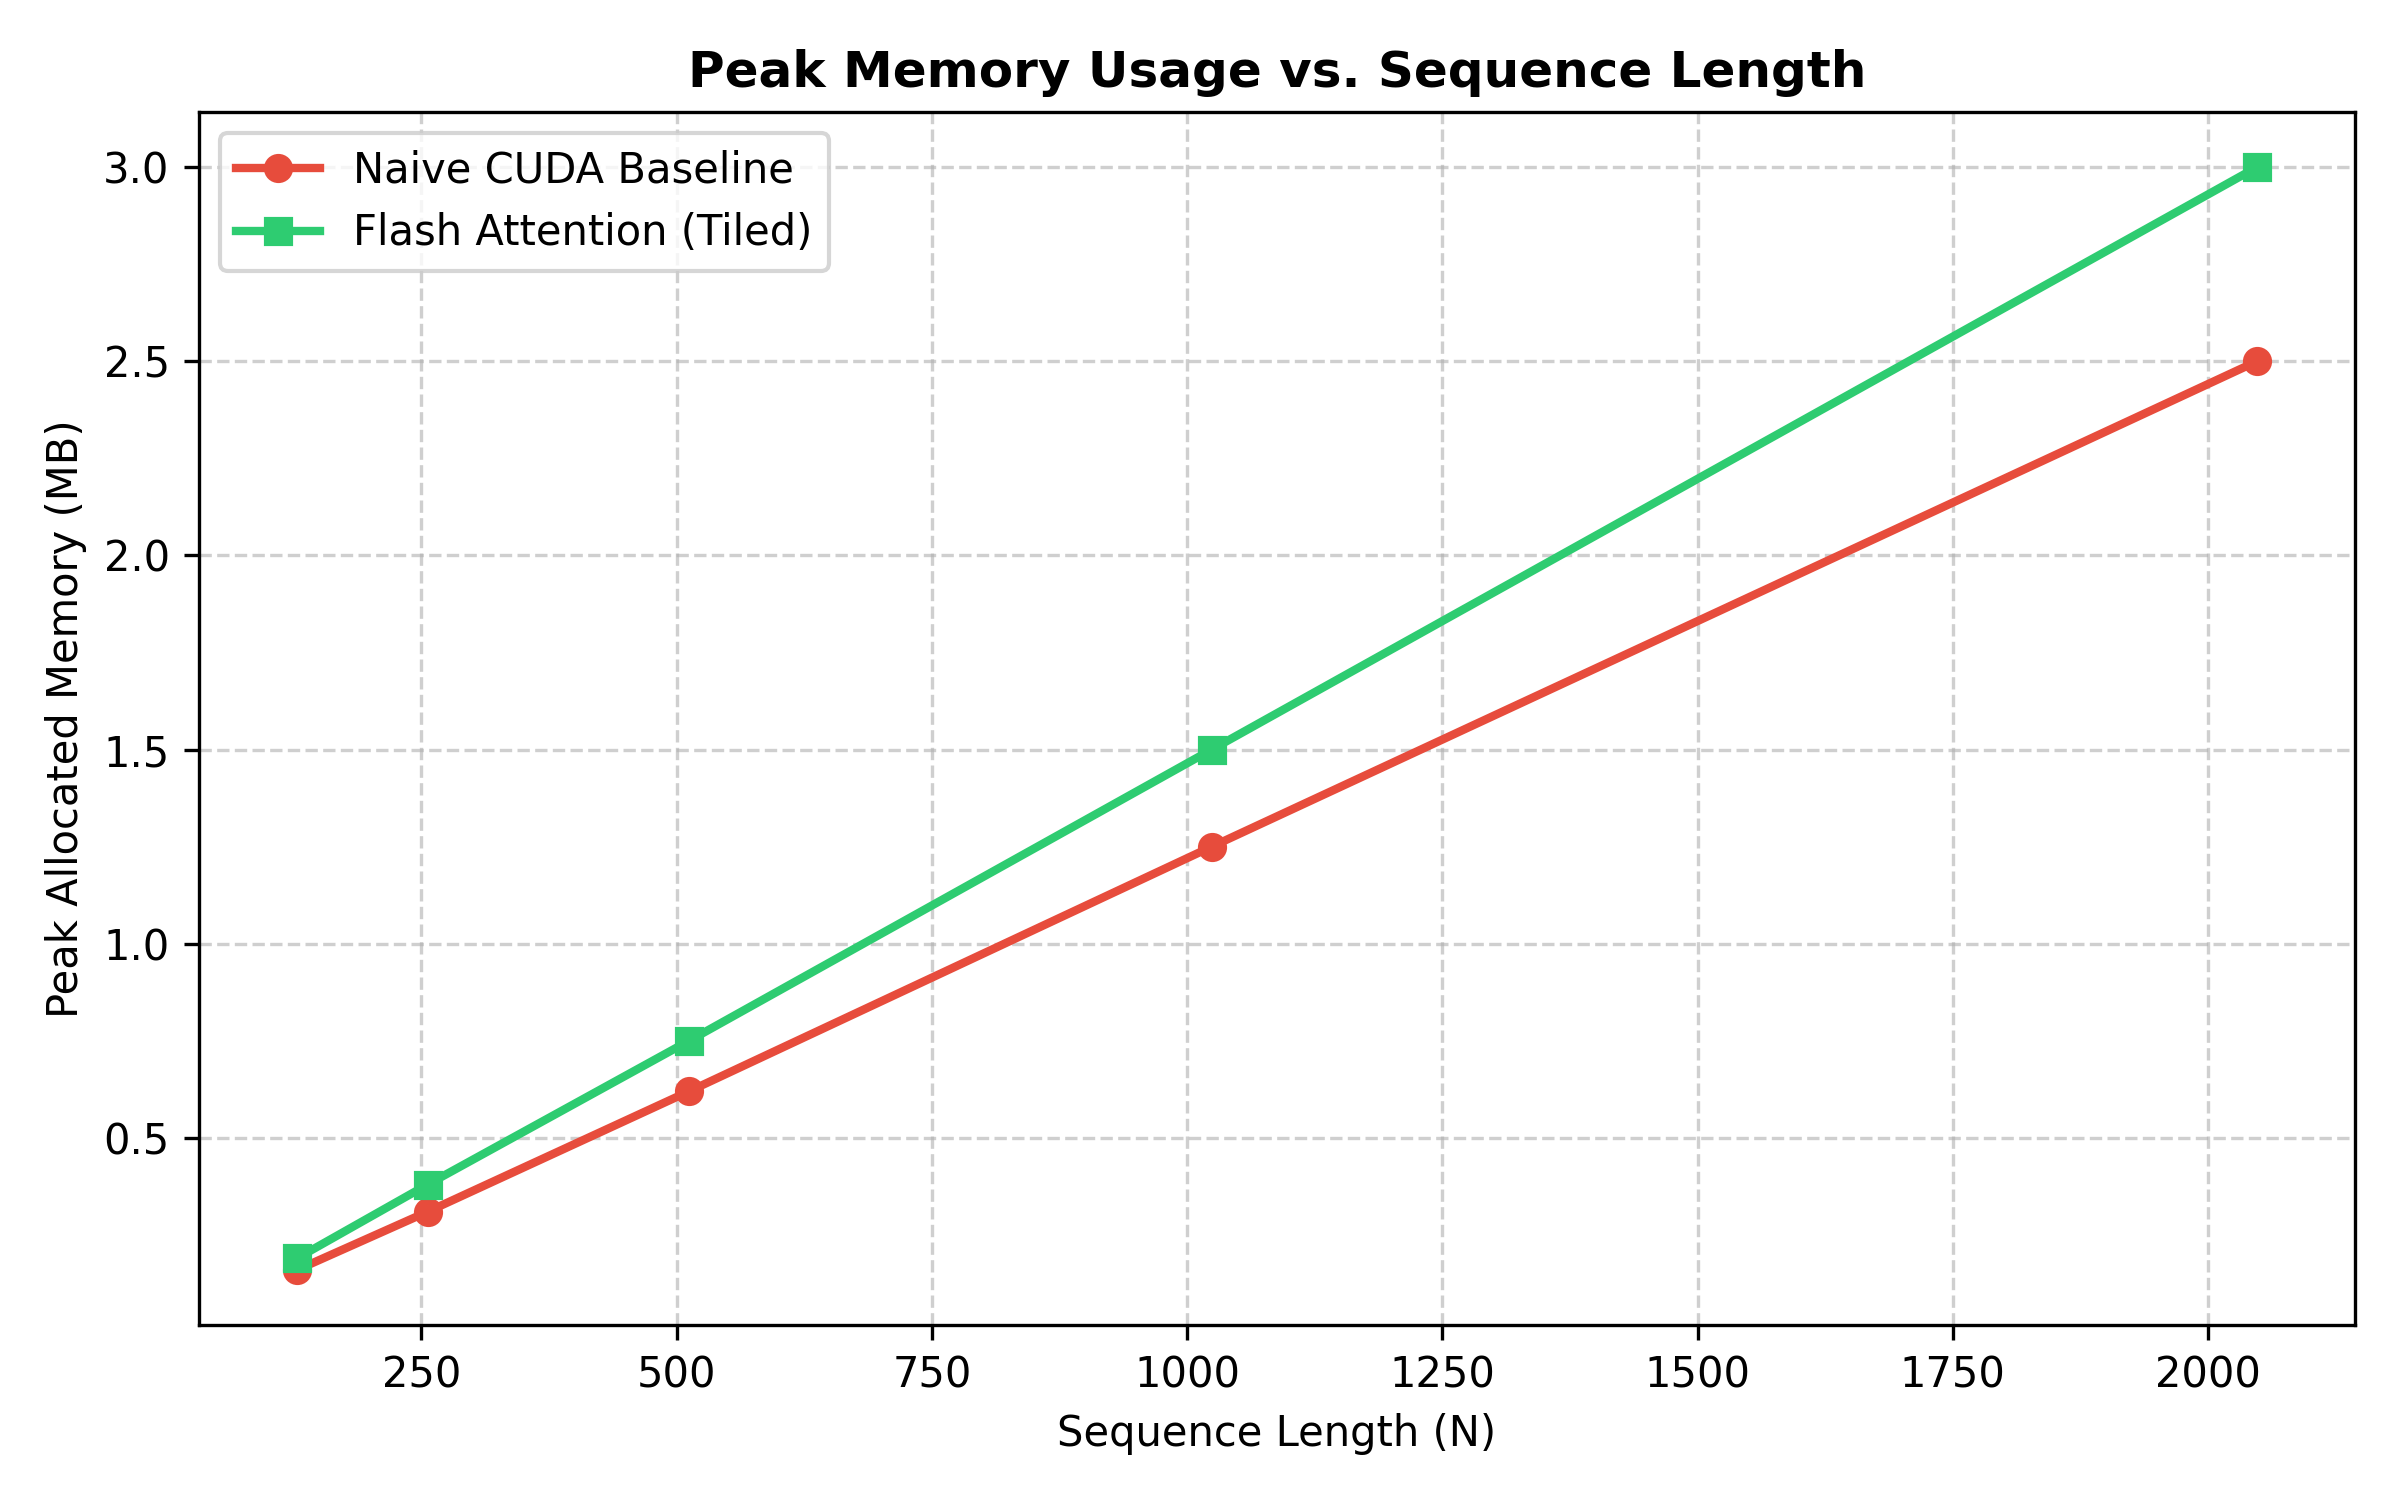
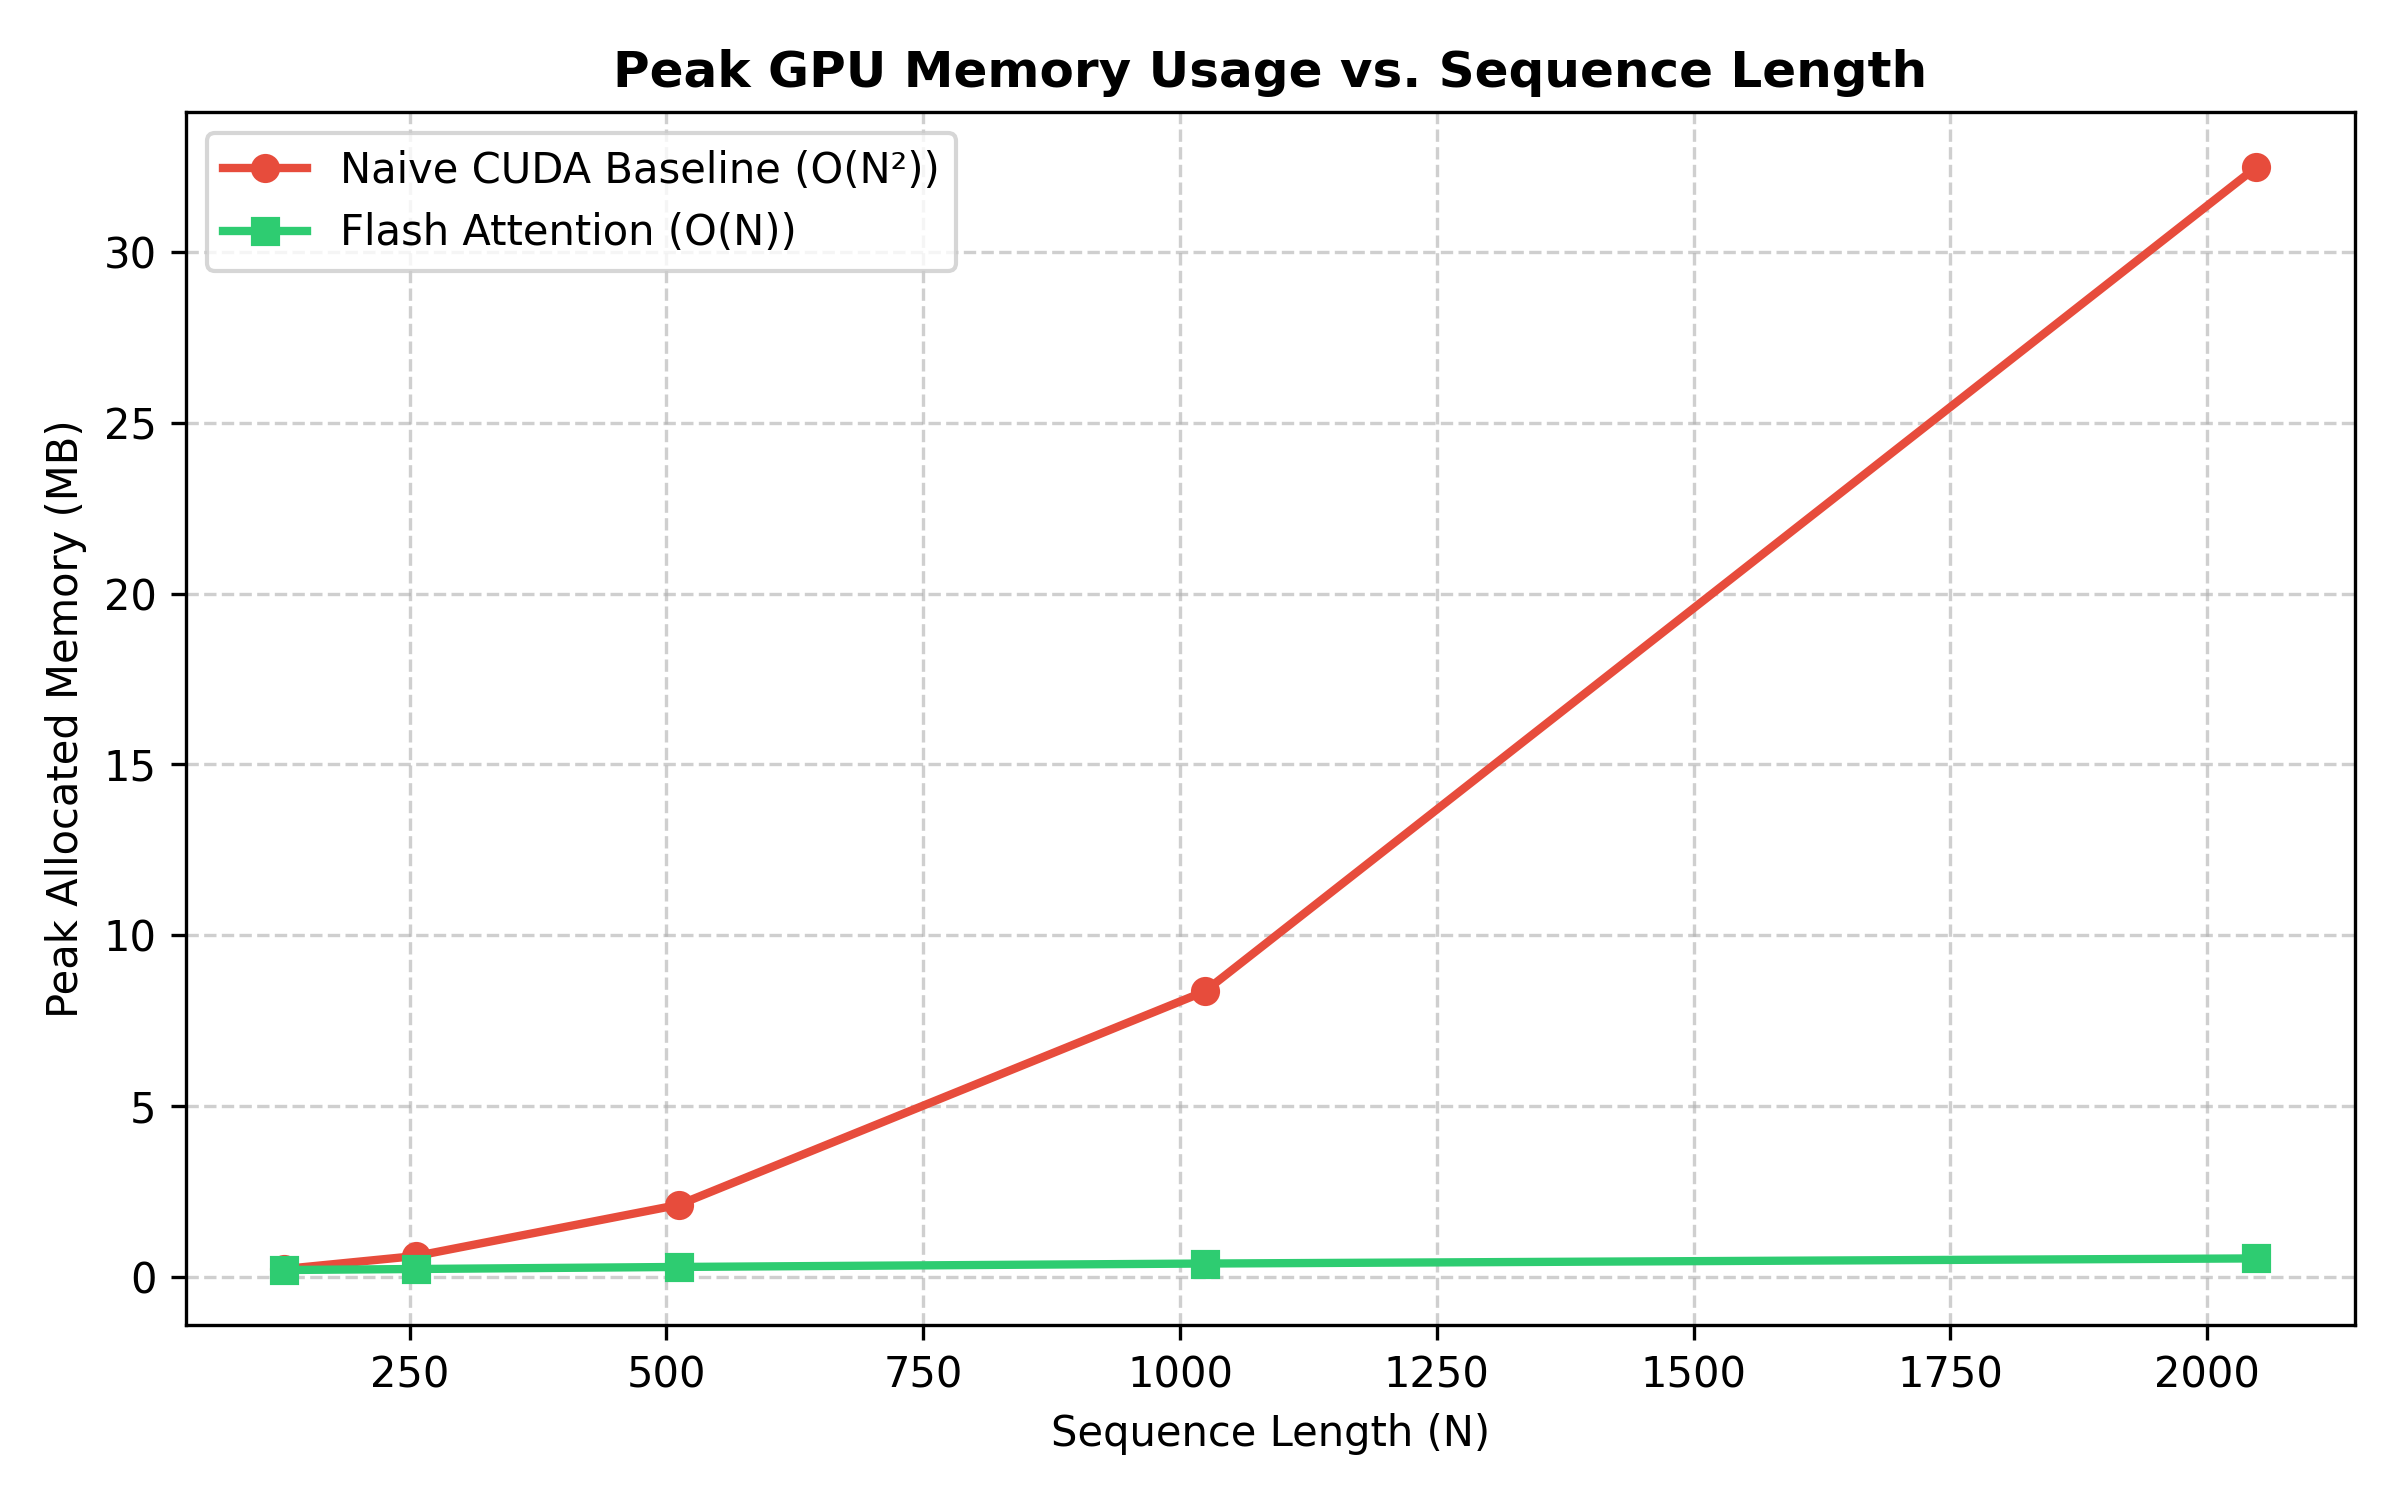
Add files via upload

diff --git a/results/results_table.md b/results/results_table.md
@@ -2,8 +2,8 @@
 
 | Seq Len | Naive Attention (ms) | PyTorch (ms) | Flash Attention (ms) | Naive Memory (MB) | Flash Memory (MB) | Speedup |
 |---|---|---|---|---|---|---|
-| 128 | 0.3402 | 0.0634 | 0.5436 | 0.16 | 0.19 | 0.63x |
-| 256 | 0.9791 | 0.1148 | 0.4722 | 0.31 | 0.38 | 2.07x |
-| 512 | 1.0507 | 0.0922 | 0.8562 | 0.62 | 0.75 | 1.23x |
-| 1024 | 2.6513 | 0.1631 | 2.0219 | 1.25 | 1.50 | 1.31x |
-| 2048 | 8.0829 | 0.4272 | 5.8839 | 2.50 | 3.00 | 1.37x |
+| 128 | 0.2111 | 0.0634 | 0.5544 | 0.28 | 0.19 | 0.38x |
+| 256 | 0.8347 | 0.1177 | 0.5218 | 0.81 | 0.38 | 1.60x |
+| 512 | 0.8751 | 0.0913 | 0.8639 | 2.62 | 0.75 | 1.01x |
+| 1024 | 2.3009 | 0.1633 | 2.0182 | 9.25 | 1.50 | 1.14x |
+| 2048 | 7.3930 | 0.4200 | 5.8680 | 34.50 | 3.00 | 1.26x |

diff --git a/results/methodology.md b/results/methodology.md
@@ -7,3 +7,4 @@
 - **Warmup Runs:** 20 iterations
 - **Timed Runs:** 100 iterations per configuration
 - **Timing Protocol:** `torch.cuda.Event` synchronized timing
+- **Memory Tracking:** `torch.cuda.max_memory_allocated()` capturing full inputs + dynamic intermediate buffers